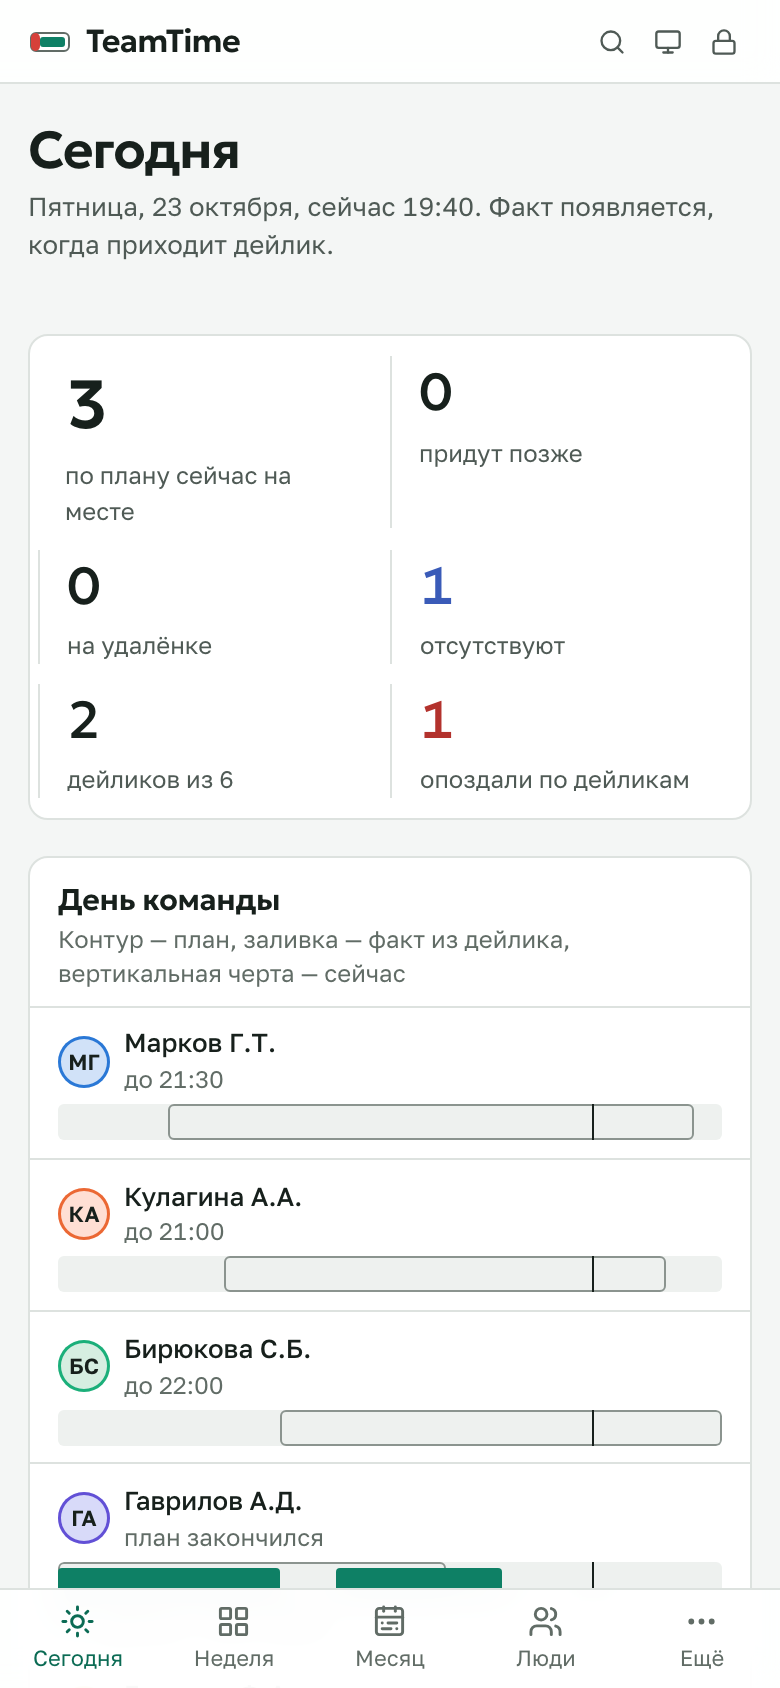
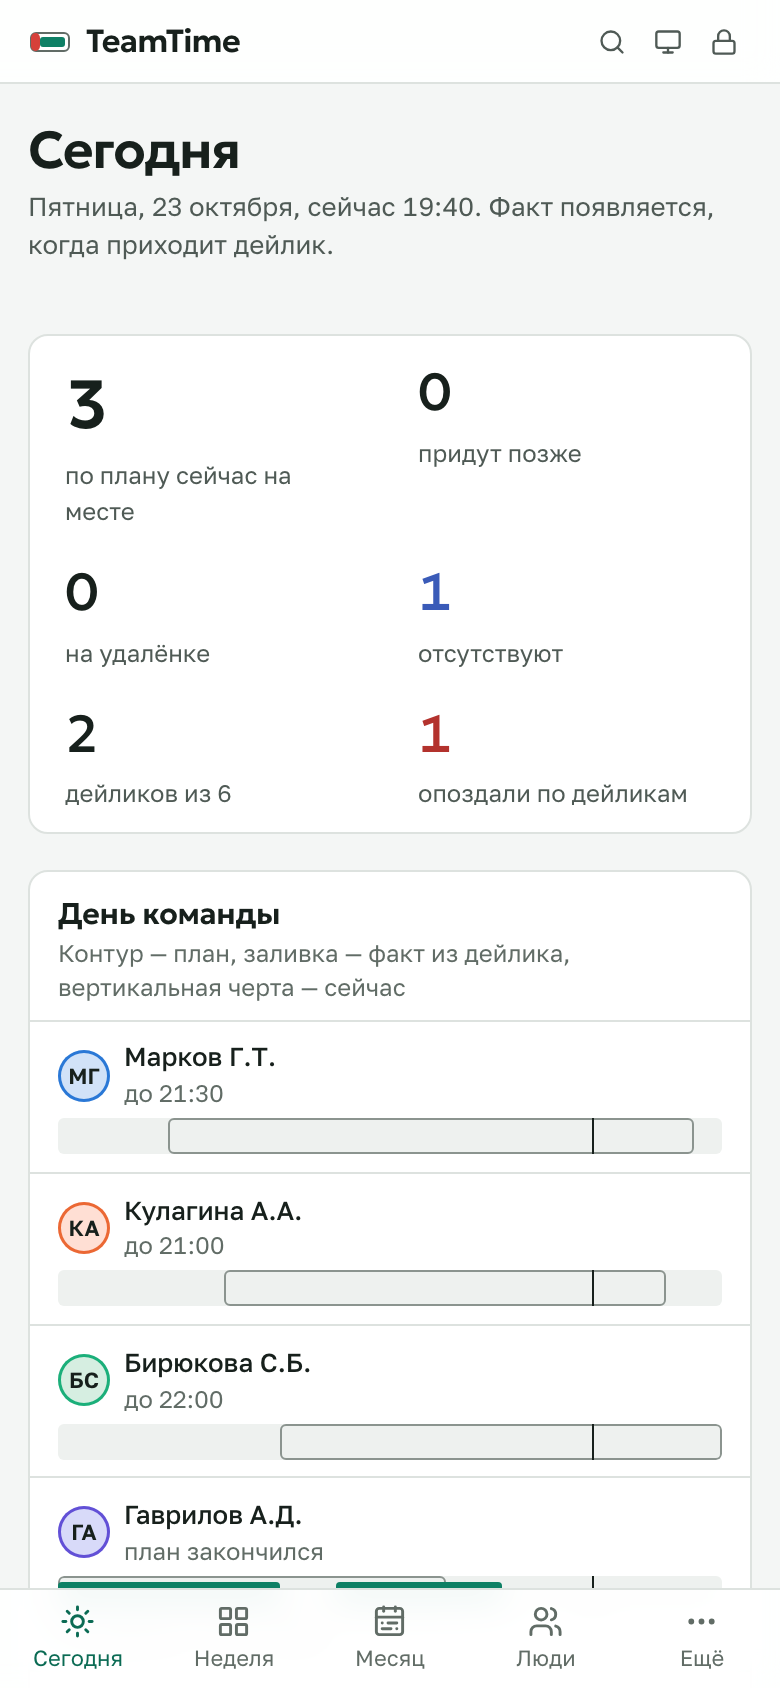
fix(web): сетка ключевых чисел на телефоне, подпись нормы в тёмной теме
Скриншоты пересняты на чистой демо-базе.

diff --git a/frontend/src/pages/TodayPage.tsx b/frontend/src/pages/TodayPage.tsx
@@ -81,9 +81,9 @@ function KeyNumbers({ data }: { data: Today }) {
     { label: "опоздали по дейликам", value: c.late ?? 0, tone: (c.late ?? 0) > 0 ? "text-late-ink" : "" },
   ];
   return (
-    <section aria-label="Ключевые числа дня" className="flex flex-wrap gap-y-3 rounded-lg border border-line bg-surface px-1 py-3">
+    <section aria-label="Ключевые числа дня" className="grid grid-cols-2 gap-y-4 rounded-lg border border-line bg-surface px-1 py-3 sm:grid-cols-3 xl:flex">
       {items.map((it) => (
-        <div key={it.label} className="flex min-w-[9.5rem] flex-1 flex-col gap-0.5 border-line px-4 [&:not(:first-child)]:border-l">
+        <div key={it.label} className="flex flex-1 flex-col gap-0.5 border-line px-4 xl:min-w-[9.5rem] xl:[&:not(:first-child)]:border-l">
           <span className={cn("font-display tnum leading-none", it.strong ? "text-[34px] font-semibold" : "text-[26px] font-medium", it.tone)}>
             {it.value}
           </span>

diff --git a/frontend/src/pages/month/SummaryTab.tsx b/frontend/src/pages/month/SummaryTab.tsx
@@ -66,8 +66,8 @@ export function SummaryTab({ data }: { data: Month }) {
       </div>
       <p className="text-[12px] text-ink-3">
         Итого = Часы(e%) − Опоздания(−). Опоздания(−) — штраф по прогрессивной шкале от суммы опозданий за
-        месяц (вкладка «Опоздания»). Норма фиксированная и не уменьшается из-за отпусков и праздников. Чёрная риска на
-        полосе — норма.
+        месяц (вкладка «Опоздания»). Норма фиксированная и не уменьшается из-за отпусков и праздников. Риска на полосе —
+        норма.
       </p>
     </div>
   );
